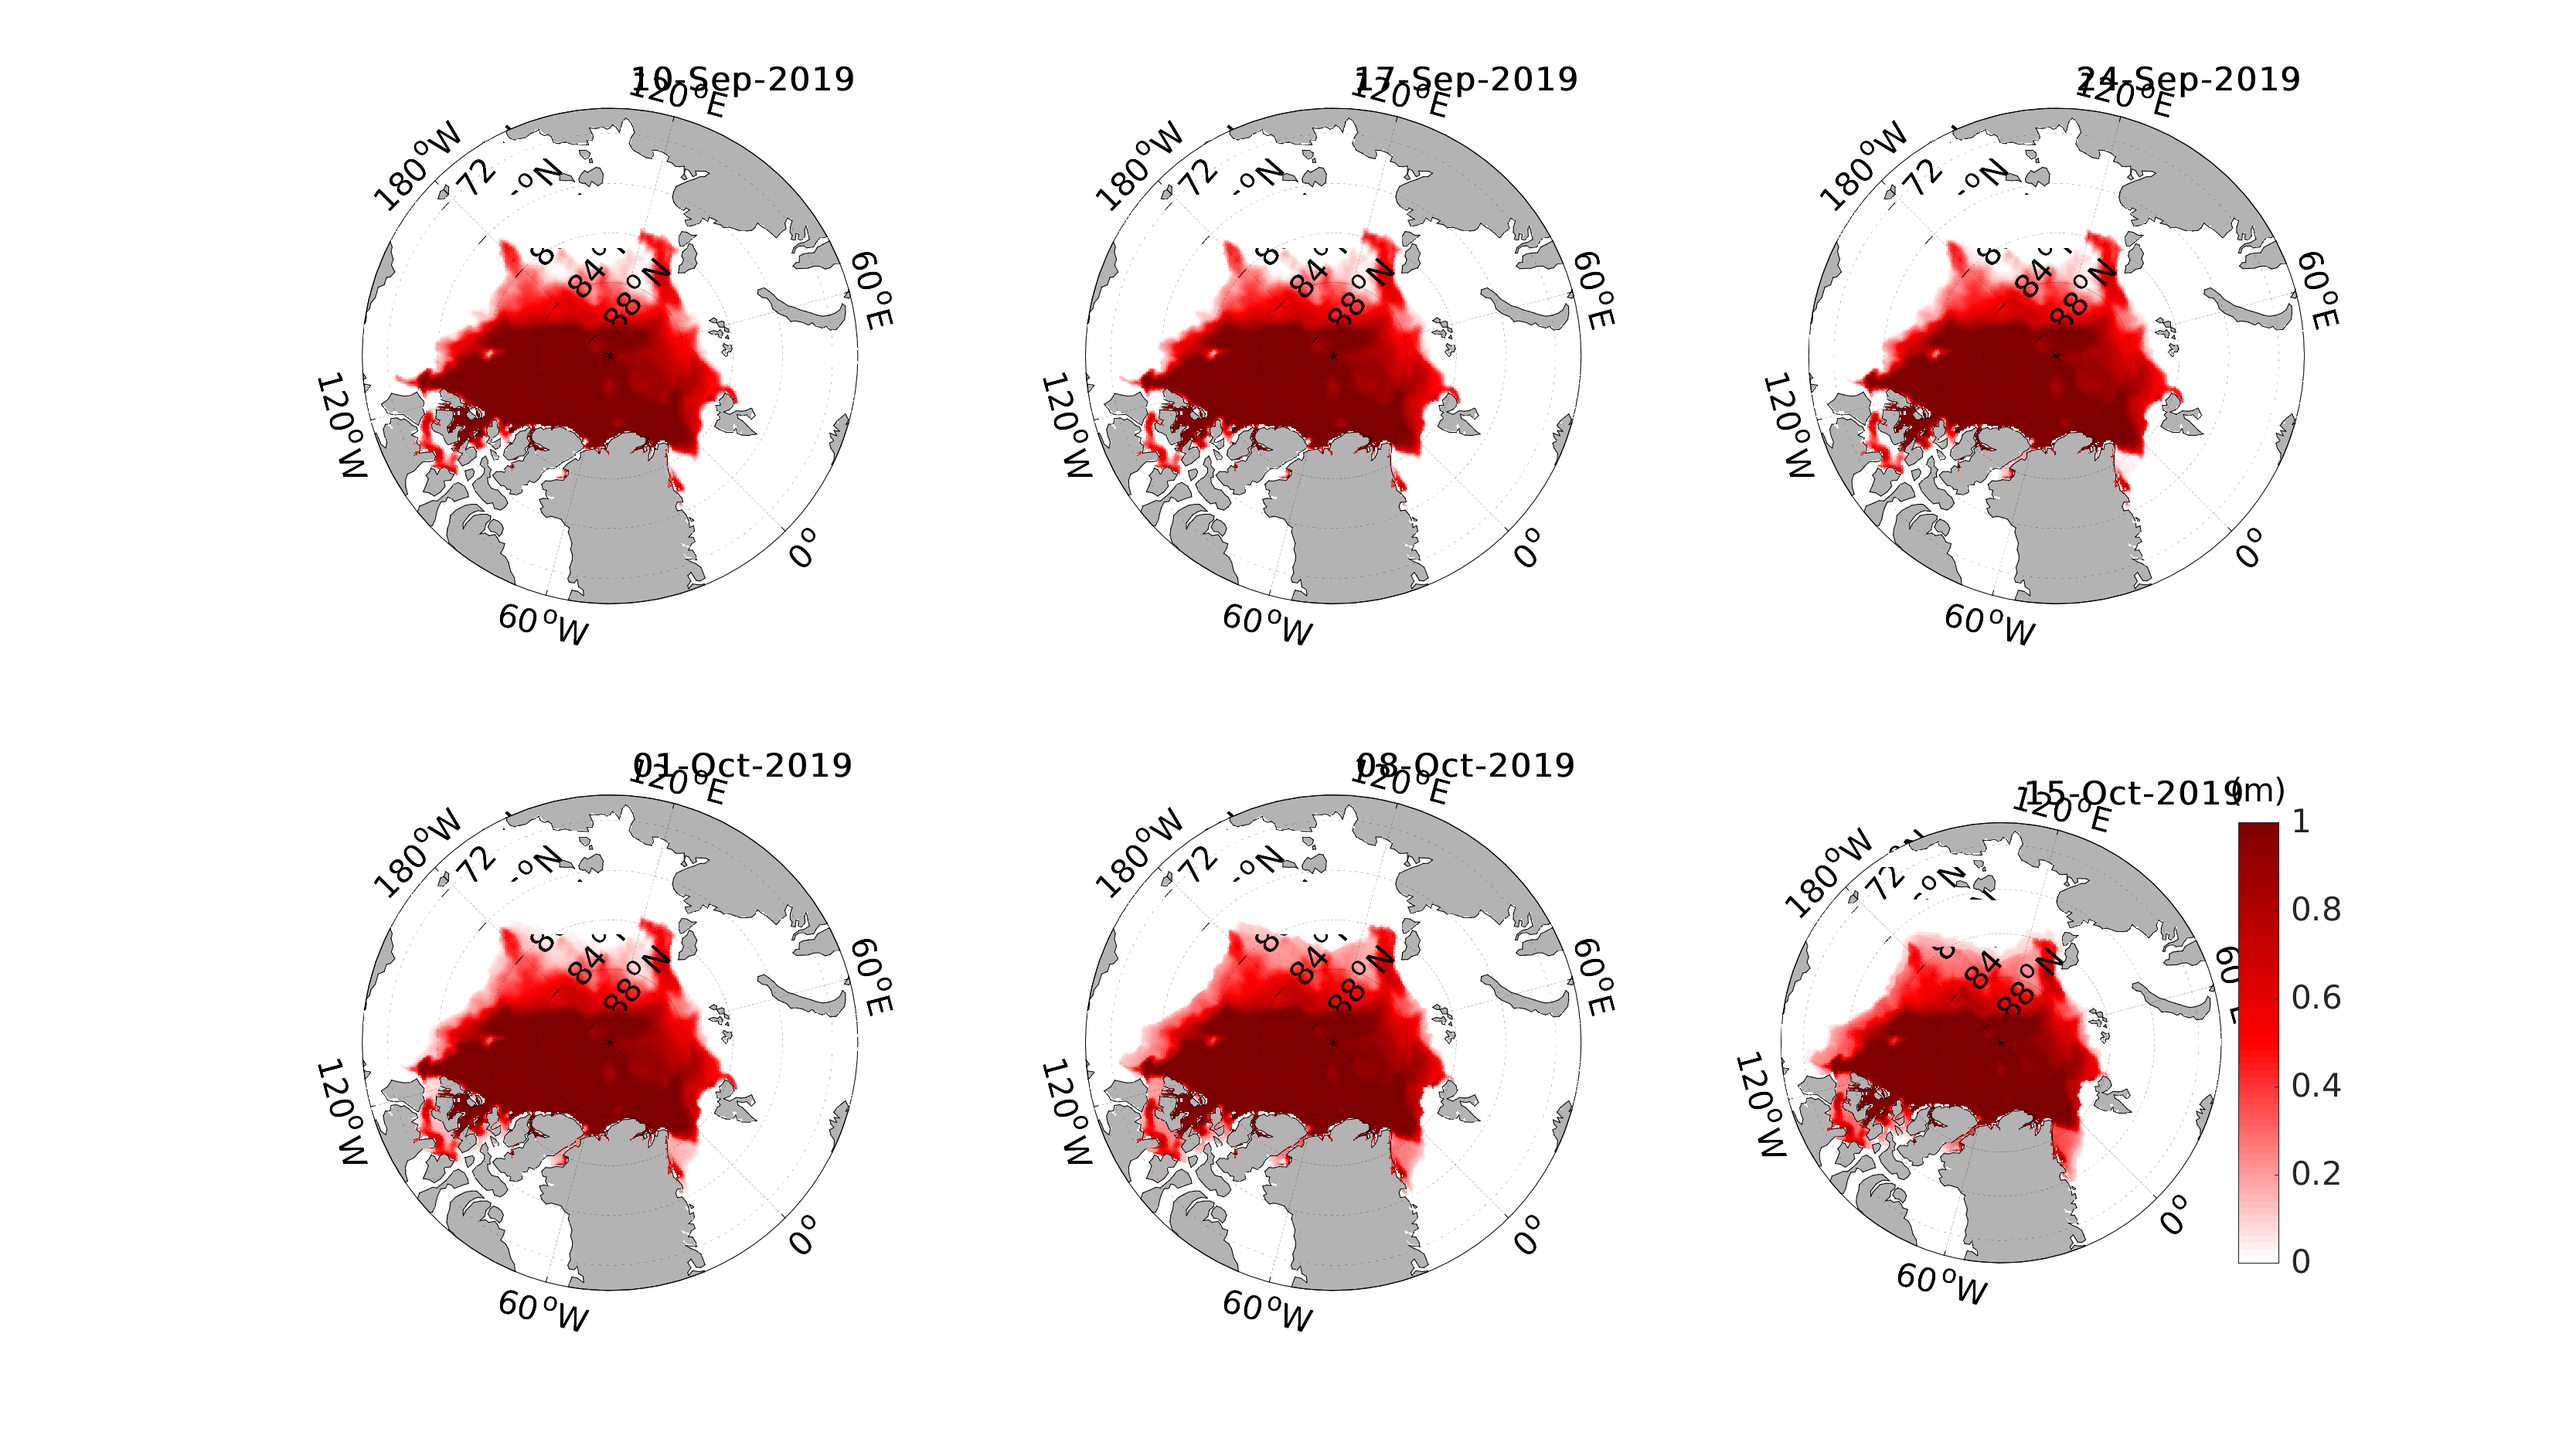
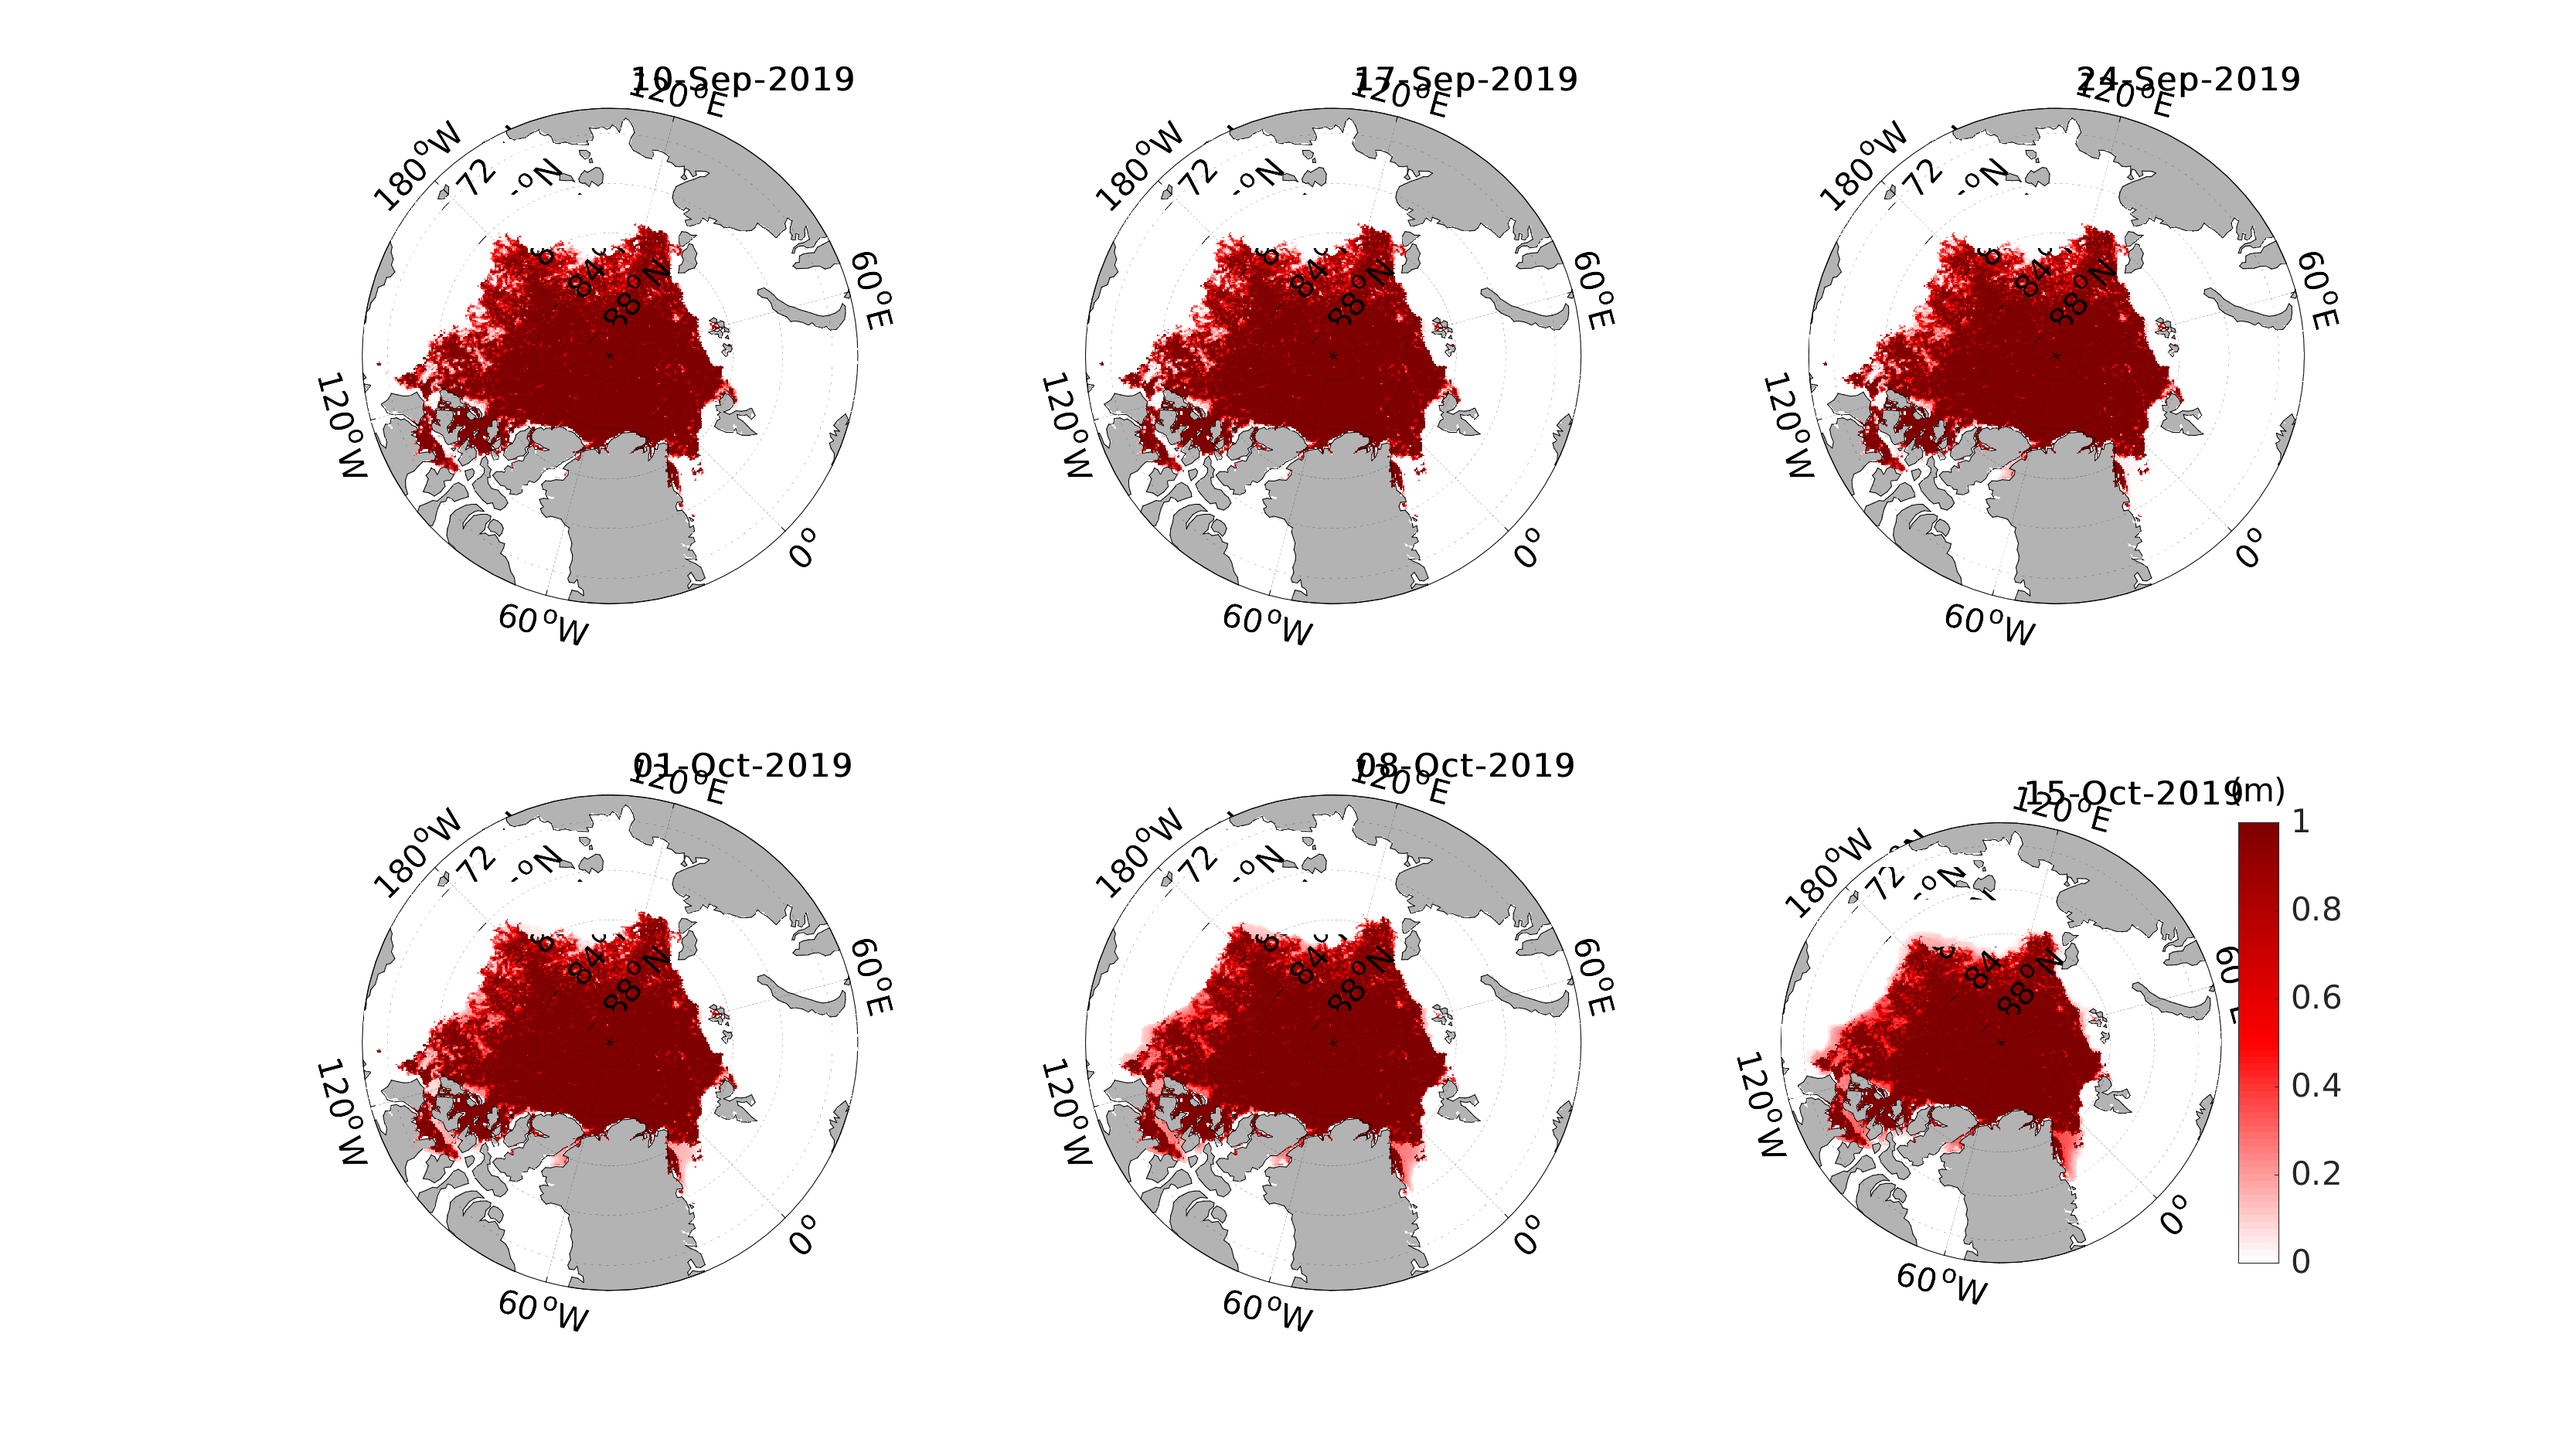
2-23-2021

diff --git a/2020DA_scripts/analysis_matlab/main_moorings.m b/2020DA_scripts/analysis_matlab/main_moorings.m
@@ -6,23 +6,25 @@ function [] = main_moorings()
     format short g
     % ---------------------- settings ---------------------------
     periods_list = ["2019-9-3" "2019-9-10" "2019-9-17" "2019-9-24" "2019-10-1" "2019-10-8" ];  % d = day(t,'dayofyear')
-    % periods_list = ["2019-9-3" ]; 
+    periods_list = ["2019-11-03"]; 
+    Duration = 2; % duration days set in nextsim.cfg    %
+    row = 1;
+    col = 1;
+    Var = 'damage';
     N_periods = length(periods_list);                     
-    Duration = 7; % duration days set in nextsim.cfg    
     Ne = 1;     % ensemble_size   
 %    mnt_dir  = '/nird/projects/nird/NS2993K/NORSTORE_OSL_DISK/NS2993K/chengsukun'; 
     mnt_dir='/cluster/home/chengsukun/src/IO_nextsim'; 
     % mnt_dir = '/Users/sukeng/Desktop/nird'; % mac;     %    mnt_dir = 'Z:\';  % window  
     % simul_dir = '/ensemble_forecasts_2019-09-03_7days_x_6cycles_memsize1'; 
-    simul_dir = '/ensemble_forecasts_2019-09-03_42days_x_1cycles_memsize1'; 
+    % simul_dir = '/ensemble_forecasts_2019-09-03_42days_x_1cycles_memsize1'; 
+    simul_dir = ['/ensemble_forecasts_' periods_list{1} '_' num2str(Duration) 'days_x_1cycles_memsize1'];
+    
     simul_dir = [mnt_dir simul_dir];   
 
-    row = 2;
-    col = 3;
+
 %% ------------------------------------------------------------------------
 for j = 1
-    close all
-    Var = 'sit';
     check_a_member = 1; %Ne; % check_member=Ne presents ensemble average
     n = 0;
     figure(1)
@@ -33,11 +35,11 @@ for j = 1
         data_dir = [ simul_dir '/date1' ];
         t = datetime(periods_list(it))+Duration;
     % moorings
-        filename = ['Moorings_2019d' num2str(day(t-1,'dayofyear')) '.nc'];
+        filename = ['Moorings_2019d' num2str(day(t-1,'dayofyear')) '.nc']
         clear data
         m = 0;
         for ie = j %:check_a_member   
-            file_dir = [data_dir '/mem' num2str(ie) '/' filename];
+            file_dir = [data_dir '/mem' num2str(ie) '/' filename]
             % ncdisp(file_dir)
             data_tmp = ncread(file_dir,Var); 
             m = m +1;
@@ -52,10 +54,10 @@ for j = 1
         lat = ncread(file_dir,'latitude');
         % save spread plot
         subplot(row,col,n)
-        m_pcolor(lon,lat,X); shading flat; caxis([0 1])
+        m_pcolor(lon,lat,X); shading flat; % caxis([0 1])
         m_grid('color','k'); % 'linestyle','-'
         m_coast('patch',0.7*[1 1 1]);  
-        colormap(bluewhitered);
+        % colormap(bluewhitered);
         set(gca,'Visible','off')
             % % add text on plot    
             % TEXT=datestr(t);
@@ -92,7 +94,7 @@ for j = 1
     %
     set(findall(gcf,'-property','FontSize'),'FontSize',20); 
     if check_a_member==1
-        saveas(figure(1),[ Var '_mem' num2str(j-1) '_free_drift_develop_main_moorings.png'],'png')
+        saveas(figure(1),[ Var '_mem' num2str(j-1) '.png'],'png')
     else
         saveas(figure(1),['spread_' Var '_' datestr(t) '_main_moorings.png'],'png')
         figure(2)

diff --git a/2020DA_scripts/analysis_matlab/main_OSISAF.m b/2020DA_scripts/analysis_matlab/main_OSISAF.m
@@ -5,7 +5,7 @@ function [] = main_OSISAF()
     dbstop if error
     format short g
     % ---------------------- settings ---------------------------
-    periods_list = ["2019-10-1" ];  % d = day(t,'dayofyear')
+    periods_list = ["2019-09-10" ];  % d = day(t,'dayofyear')
     N_periods = length(periods_list);                     
     Duration = 7; % duration days set in nextsim.cfg    
     Ne = 100;     % ensemble_size
